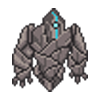
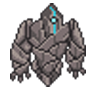
cropped images + adjusted some stats

diff --git a/playscene.py b/playscene.py
@@ -144,7 +144,7 @@ def main():
                              menu_scene.wrapped_rect)
 
         '''death detection.'''
-        if hero1.isDead() or (gameLevel == 1 and boss_dead):
+        if hero1.isDead() or (gameLevel == 6 and boss_dead):
             # hero is dead or boss is defeated, game over screen
 
             player_list.empty()
@@ -177,7 +177,7 @@ def main():
         elif started:
 
             # boss set up
-            if gameLevel == 1:
+            if gameLevel == 6:
                 if boss_frame == -1:
                     boss = monsters.Boss()
                     monster_list.add(boss)
@@ -201,7 +201,7 @@ def main():
                         #     m.kill()
 
             # boss weapon and attack
-            if gameLevel == 1 and boss_frame >= 200:
+            if gameLevel == 6 and boss_frame >= 200:
                 if boss_frame % 60 == 0:
                     monster_list.add(monsters.Bullet(boss.x, boss.y))
                 if boss_frame >= 500:
@@ -301,7 +301,7 @@ def rand_scene(hero):
     hero.setPlayGround(scene.border_x, scene.border_y)
     hero.setPos(100, 500)
     monster_list = pygame.sprite.Group()
-    if gameLevel == 1:
+    if gameLevel == 6:
         pass
     else:
         for _ in range(random.randint(4, 7)):

diff --git a/models/monsters.py b/models/monsters.py
@@ -99,7 +99,7 @@ class Boss(Monster):
 class Bullet(Monster):
 
     def __init__(self, x, y):
-        Monster.__init__(self, x, y, "bullet", 1, 1, 10, 5, 1.5)
+        Monster.__init__(self, x, y, "bullet", 1, 1, 10, 50, 1.5)
 
 
 """ end monster classes """
